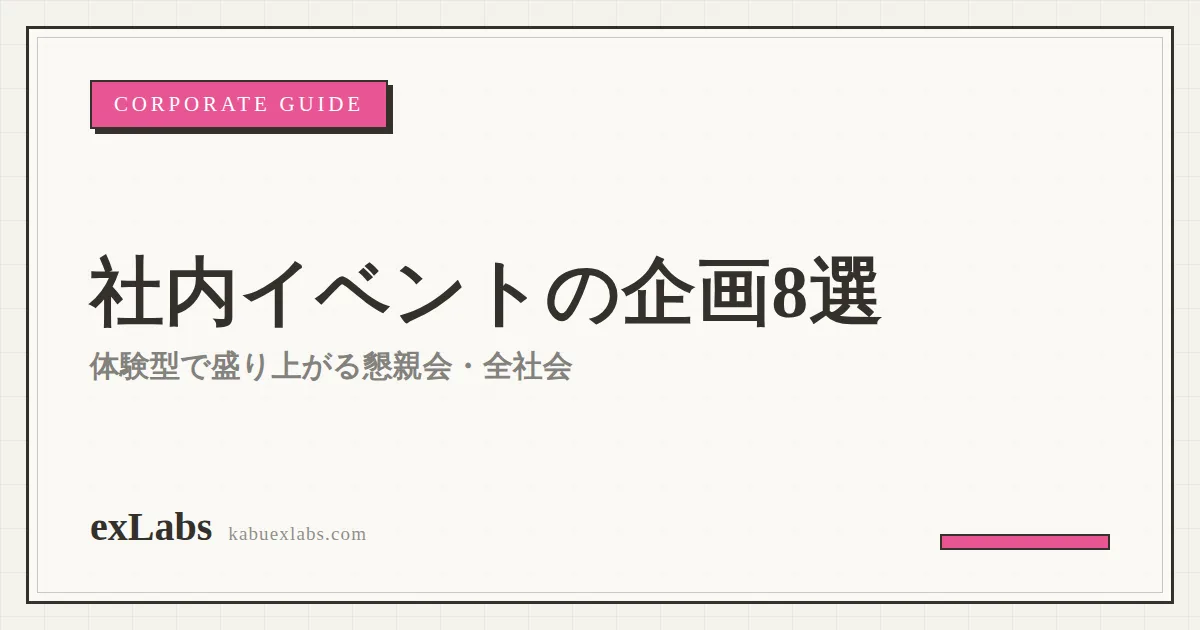
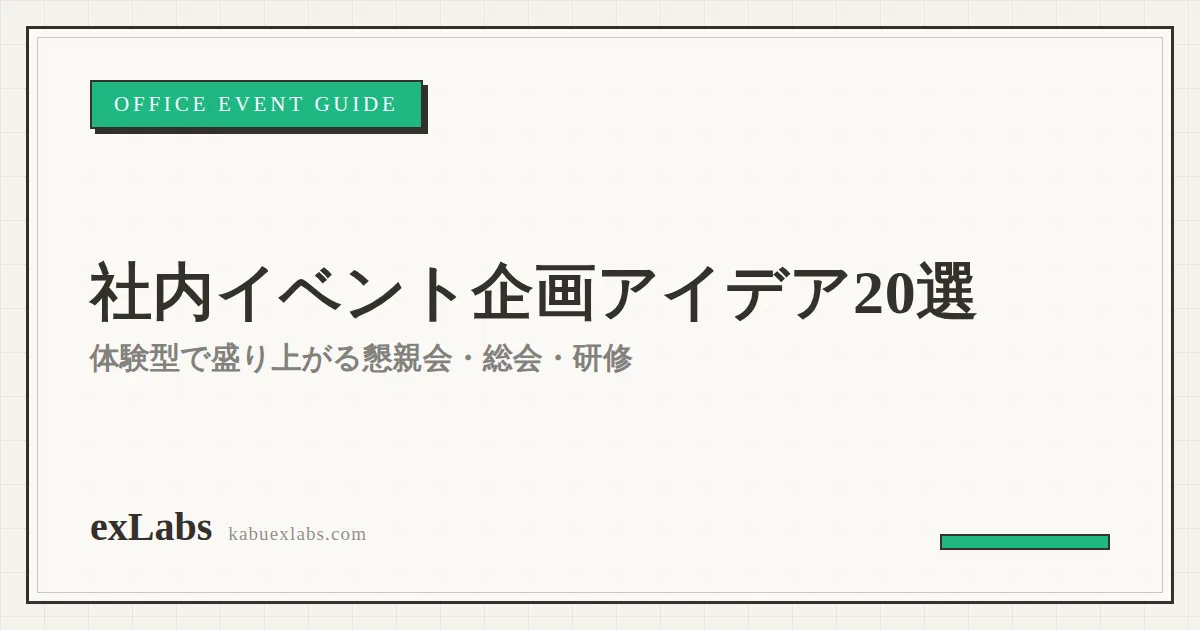
9/3データに基づく施策：社内イベント記事を20選に拡充／イマーシブ演劇の同義語明示／施設活用ピラーに2026年動向
- 社内イベント記事（55位で停滞）：競合は30〜50選のリスト記事のため、
  8選→20選へ拡充し「予算・人数別の目安」セクションを追加。title/h1/
  構造化データ/サムネイル/一覧タイトルを更新
- イマーシブシアター記事：新出クエリ「イマーシブ演劇」（10位台）向けに
  同義語（イマーシブ演劇・没入型演劇）の説明を追記
- 施設活用イベントとは（6.3→12.8位に後退）：2026年の動向（大型常設→
  既存施設×期間限定）を追記し、催事・ポップアップ記事へ接続
- 3ページの dateModified・sitemap lastmod を 2026-09-03 に更新

Claude-Session: https://claude.ai/code/session_01GaV7njj8qR8FuS3YEyQz1j

diff --git a/src/pages/sitemap.xml.ts b/src/pages/sitemap.xml.ts
@@ -99,7 +99,7 @@ export const GET: APIRoute = async ({ site }) => {
     '/guide/immersive-cost/': '2026-08-07',
     '/guide/immersive-company/': '2026-08-07',
     '/guide/immersive-tokyo/': '2026-08-31',
-    '/guide/shisetsu-katsuyo/': '2026-08-07',
+    '/guide/shisetsu-katsuyo/': '2026-09-03',
     '/guide/shogyoshisetsu-event/': '2026-08-31',
     '/guide/yukyu-kukaku/': '2026-08-07',
     '/guide/eigyo-jikangai/': '2026-08-07',
@@ -120,7 +120,7 @@ export const GET: APIRoute = async ({ site }) => {
     '/guide/nazotoki-idea/': '2026-08-12',
     '/guide/madamis-asobikata/': '2026-08-12',
     '/guide/nazotoki-kenshu/': '2026-08-23',
-    '/guide/shanai-event/': '2026-08-24',
+    '/guide/shanai-event/': '2026-09-03',
     '/guide/immersive-seisaku/': '2026-08-24',
     '/guide/kisetsu-event/': '2026-08-24',
     '/guide/shuyu-event/': '2026-08-10',
@@ -130,7 +130,7 @@ export const GET: APIRoute = async ({ site }) => {
     '/guide/case-uwasabanashi/': '2026-08-11',
     '/services/immersive/': '2026-08-10',
     '/guide/immersive-event/': '2026-07-31',
-    '/guide/immersive-theater/': '2026-08-13',
+    '/guide/immersive-theater/': '2026-09-03',
     '/guide/immersive/': '2026-08-13',
     '/media/': '2026-08-07',
     '/taikenbizyutu/': '2026-08-06',

diff --git a/src/data/guides.ts b/src/data/guides.ts
@@ -286,7 +286,7 @@ export const guideArticles: GuideArticle[] = [
   },
   {
     href: '/guide/shanai-event/',
-    title: '社内イベントの企画アイデア8選｜体験型で盛り上がる懇親会・全社会',
+    title: '社内イベントの企画アイデア20選｜体験型で盛り上がる懇親会・全社会',
     desc: '全員が主役になる体験型の企画8選と、懇親会・総会・研修などシーン別の選び方、失敗しない3つのポイント。',
     date: '2026-08-24',
     category: 'nazotoki',
